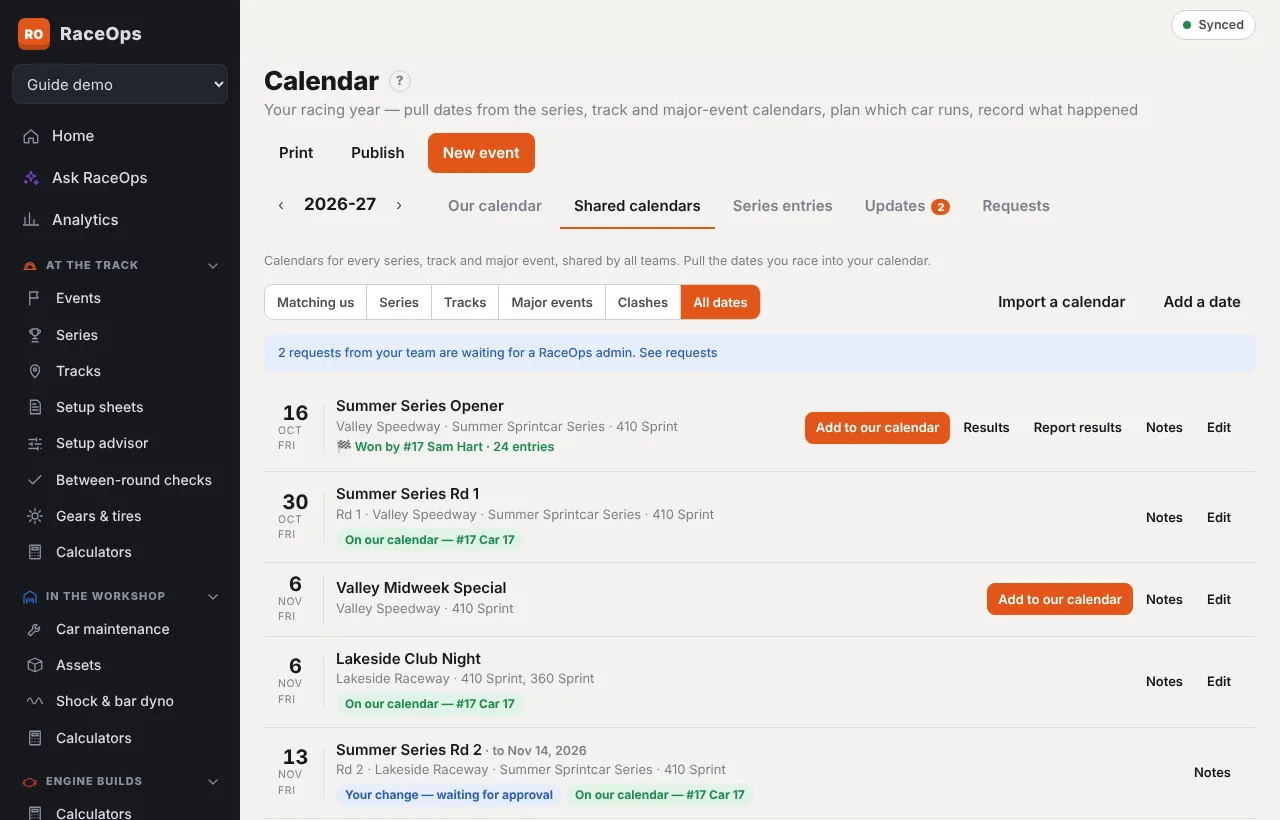
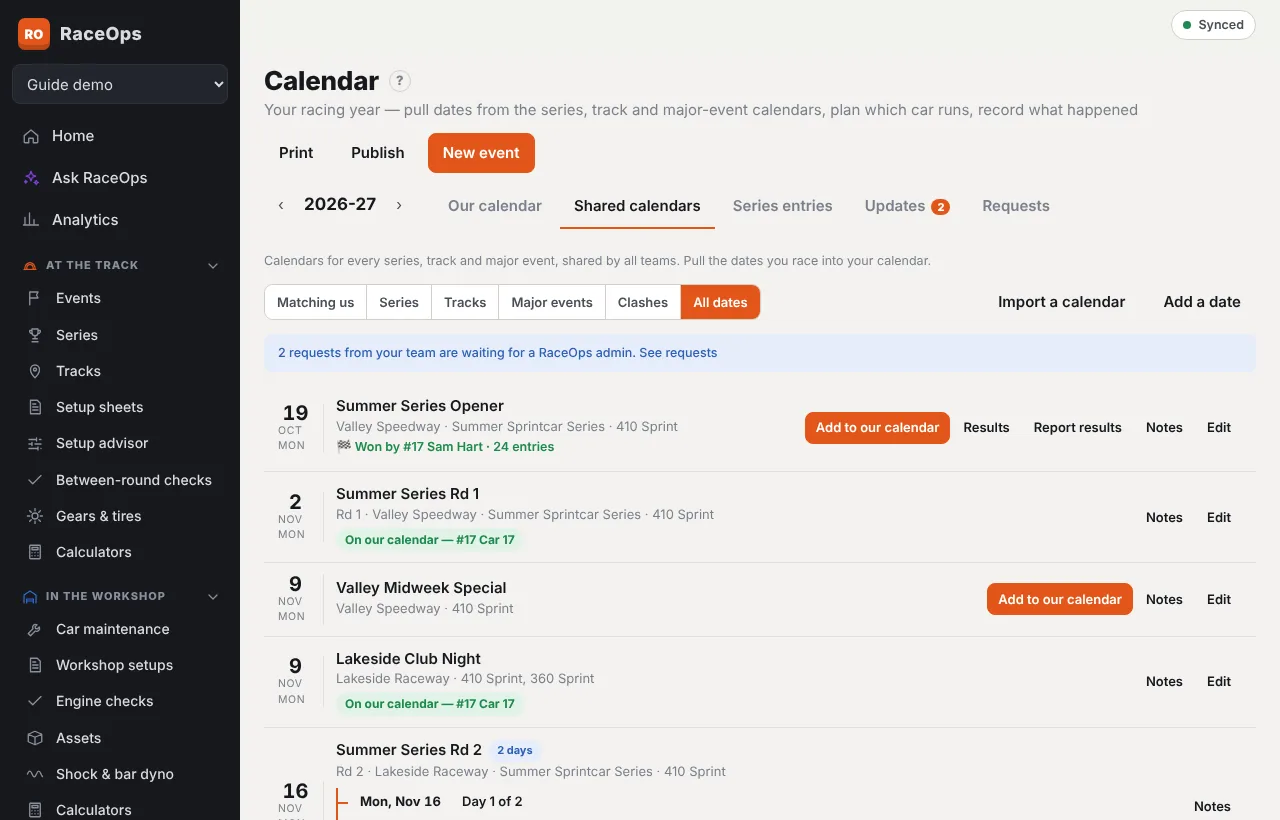
Multi-day events: a line for each day in lists
Under a multi-day event in Events, Calendar, shared calendar dates, a series'
rounds, a track's events, At the Track and the printed/published calendar:
one line per day with its date, name (or "Day 1 of 2"), start time and
rained out / cancelled, joined to the event by a rail. Past days greyed,
today marked. On the Calendar and series rounds each line opens that day.
Calendar entries and shared dates show "N days" like Events.

New DayLines component; guide, training exercise, What's new, release
notes 2026.10.24.3, design doc, retaken calendar pictures; e2e40 checks the
lines.

Claude-Session: https://claude.ai/code/session_01DwJBsK4aLjhNTjZaJ528Kq

diff --git a/web/src/pages/Calendar.jsx b/web/src/pages/Calendar.jsx
@@ -5,6 +5,7 @@ import { Fragment, useEffect, useMemo, useState } from 'react';
 import { Link, useNavigate, useParams, useSearchParams } from 'react-router-dom';
 import FormRenderer from '../components/FormRenderer.jsx';
 import { daysError, sheetsByDay } from '../components/DaysField.jsx';
+import DayLines from '../components/DayLines.jsx';
 import {
   AdminRequests, DuplicatesPanel, FeedPanel, FollowButton, HistoryPanel, MergeInto, OfficialsPanel, ReportResults, RequestsTab, ResultsTable, TeamNotes,
   UpdatesTab, sendRequest, useCalendarRequests, useOfficials, winnerText,
@@ -169,14 +170,15 @@ function CalendarRow({ i, data, past }) {
   const [editing, setEditing] = useState(false);
   const st = entryStatus(i.values, today());
   return (
-    <div className={`list-row cal-row${i.notGoing ? ' not-going' : ''}${i.cancelled ? ' cancelled' : ''}`} data-event={i.id}>
+    <div className={`list-row cal-row${i.days.length > 1 ? ' event-row' : ''}${i.notGoing ? ' not-going' : ''}${i.cancelled ? ' cancelled' : ''}`} data-event={i.id}>
       <span className="date-block">
         <b>{new Date(`${i.date}T00:00:00`).getDate() || '–'}</b>
         <small>{i.date ? new Date(`${i.date}T00:00:00`).toLocaleString(undefined, { month: 'short' }) : ''} {dow(i.date)}</small>
       </span>
       <span className="grow">
-        <Link className="row-title" to={`/events/${i.id}`}>{i.name}</Link>
-        <span className="row-sub">{[roundAndTrack(i.round, i.track), i.series, i.sanctioning, i.car, i.days.length > 1 && fmtDays(i.values)].filter(Boolean).join(' · ')}</span>
+        <Link className="row-title" to={`/events/${i.id}`}>{i.name}{i.days.length > 1 && <span className="pill pill-info days-pill">{i.days.length} days</span>}</Link>
+        <span className="row-sub">{[roundAndTrack(i.round, i.track), i.series, i.sanctioning, i.car].filter(Boolean).join(' · ')}</span>
+        <DayLines values={i.values} eventId={i.id} />
         {i.major && <span className="pill pill-info">★ {i.major}</span>}
         {winnerText(vals(i.fx)) && <span className="small winner">🏁 {winnerText(vals(i.fx))}</span>}
         {i.cancelled && <span className="pill pill-over">Cancelled</span>}
@@ -519,8 +521,9 @@ export function SharedCalendars({ data, year, sm, label, mode = 'team', admin: a
                       <small>{fv.date ? new Date(`${fv.date}T00:00:00`).toLocaleString(undefined, { month: 'short' }) : ''} {dow(fv.date)}</small>
                     </span>
                     <span className="grow">
-                      <span className="row-title">{fv.name}{eventDayList(fv).length > 1 ? <span className="muted small"> · {fmtDays(fv)}</span> : null}</span>
+                      <span className="row-title">{fv.name}{eventDayList(fv).length > 1 ? <span className="pill pill-info days-pill">{eventDayList(fv).length} days</span> : null}</span>
                       <span className="row-sub">{[roundAndTrack(fv.round, trackName(data, fv)), series && vals(series).name, sanctioningOf(fv, vals(series)), classes.join(', '), fv.start_time].filter(Boolean).join(' · ')}</span>
+                      <DayLines values={fv} />
                       {winnerText(fv) && <span className="small winner">🏁 {winnerText(fv)}{fv.entries ? ` · ${fv.entries} entries` : ''}</span>}
                       <span className="fx-flags">
                         {fv.major && <Pill level="info">{majorLabel(fv)}</Pill>}
@@ -1096,6 +1099,7 @@ export function CalendarSheet({ title, sub, items, showCar = true, showResult = 
                 <td className="cs-date">{sheetDays(i)}</td>
                 <td>
                   <b>{i.name}</b>{i.tentative && <em className="muted"> (tentative)</em>}{i.cancelled && <b className="cs-cancel"> CANCELLED</b>}
+                  {i.days?.length > 1 && <DayLines values={{ name: i.name, multi_day: true, days: i.days }} compact />}
                   {i.major && <div className="small cs-major">★ {i.major}</div>}
                   <div className="muted small">{[roundAndTrack(i.round, i.track), i.location && i.location !== i.track ? i.location : '', i.series, i.sanctioning].filter(Boolean).join(' · ')}</div>
                   {((showCar && i.car) || (showResult && i.result)) && (

diff --git a/web/src/pages/Areas.jsx b/web/src/pages/Areas.jsx
@@ -13,6 +13,7 @@ import { ShopHome } from './Shop.jsx';
 import { SetupChecklist } from '../components/SetupChecklist.jsx';
 import { AnalyticsKpis } from './Analytics.jsx';
 import { markReleaseSeen, unseenRelease } from '../lib/releases.js';
+import DayLines from '../components/DayLines.jsx';
 
 // ---------- access gate used by routes ----------
 export function AreaGate({ area, module, children }) {
@@ -213,12 +214,14 @@ export function TrackHub() {
             {ev ? (
               <Link to={`/events/${ev.id}`} className="next-event">
                 <span className="ne-date"><b>{new Date(`${v(ev, 'date')}T00:00:00`).getDate()}</b><small>{new Date(`${v(ev, 'date')}T00:00:00`).toLocaleString(undefined, { month: 'short' })}</small></span>
-                <span className="grow"><span className="row-title">{v(ev, 'name')}</span><span className="row-sub">{roundAndTrack(v(ev, 'round'), eventTrack(ev, data))}</span></span>
+                <span className="grow"><span className="row-title">{v(ev, 'name')}</span><span className="row-sub">{roundAndTrack(v(ev, 'round'), eventTrack(ev, data))}</span>
+                  <DayLines values={ev.data?.values} compact /></span>
                 <span className="btn small">Open sheets</span>
               </Link>
             ) : <p className="muted">Nothing scheduled.</p>}
             {s.nextEvents.slice(1, 4).map((e) => (
-              <Link key={e.id} to={`/events/${e.id}`} className="list-row"><span className="grow">{v(e, 'name')}<span className="row-sub">{roundAndTrack(v(e, 'round'), eventTrack(e, data))}</span></span><span className="row-meta">{fmtDate(v(e, 'date'))}</span></Link>
+              <Link key={e.id} to={`/events/${e.id}`} className="list-row"><span className="grow">{v(e, 'name')}<span className="row-sub">{roundAndTrack(v(e, 'round'), eventTrack(e, data))}</span>
+                <DayLines values={e.data?.values} compact /></span><span className="row-meta">{fmtDate(v(e, 'date'))}</span></Link>
             ))}
           </Section>
         )}

diff --git a/web/src/styles.css b/web/src/styles.css
@@ -1588,3 +1588,23 @@ a.sc-label { color: inherit; font-weight: 600; }
 .release-nav { display: flex; justify-content: space-between; gap: 8px; }
 .release-notice { display: flex; align-items: center; gap: 10px; }
 .sidebar-foot .app-version { display: block; margin-top: 2px; text-decoration: none; }
+
+/* multi-day events in lists: a line per day under the event, joined to it by a rail */
+.day-lines { list-style: none; margin: 8px 0 2px; padding: 0 0 0 14px; border-left: 2px solid var(--a-track, var(--accent)); display: grid; gap: 2px; position: relative; z-index: 1; }
+.day-line { position: relative; }
+.day-line::before { content: ''; position: absolute; left: -14px; top: 50%; width: 10px; border-top: 2px solid var(--a-track, var(--accent)); }
+.dl-link { display: flex; flex-wrap: wrap; align-items: center; gap: 2px 10px; padding: 4px 8px; border-radius: 6px; color: inherit; text-decoration: none; font-size: 13px; }
+a.dl-link:hover { background: var(--surface-2); }
+.dl-when { min-width: 92px; font-weight: 700; font-variant-numeric: tabular-nums; }
+.dl-name { font-weight: 600; }
+.dl-meta { color: var(--muted); }
+.day-line.past .dl-link { color: var(--muted); }
+.day-line.today .dl-when::after { content: ' · today'; color: var(--accent); }
+.day-line.off .dl-when, .day-line.off .dl-name { text-decoration: line-through; color: var(--muted); }
+.day-lines.compact .dl-link { padding: 2px 6px; font-size: 12.5px; }
+.day-lines.compact .dl-when { min-width: 84px; }
+/* event rows with day lines: everything lines up at the top */
+.list-row.event-row { align-items: flex-start; }
+.list-row.event-row .date-block, .list-row.event-row .row-meta { padding-top: 2px; }
+.cal-table .day-lines { margin-top: 4px; }
+@media print { .day-lines { border-left-color: #999; } .day-line::before { border-top-color: #999; } }

diff --git a/web/src/pages/Events.jsx b/web/src/pages/Events.jsx
@@ -8,6 +8,7 @@ import { useSession } from '../lib/session.jsx';
 import { saveRecord } from '../lib/store.js';
 import { orderForNew, orderSessions } from '../lib/sessions.js';
 import { EntryResult } from './Calendar.jsx';
+import DayLines from '../components/DayLines.jsx';
 
 /** Number of days an event runs (1 for single-day). */
 export const eventDays = (ev) => Math.max(1, eventDayList(ev?.data?.values).length);
@@ -37,14 +38,15 @@ export function currentDay(tabs, t = today()) {
 export function EventRow({ e, data, n }) {
   const s = data.byId[v(e, 'series')];
   return (
-    <Link to={`/events/${e.id}`} className="list-row">
+    <Link to={`/events/${e.id}`} className="list-row event-row" data-event={e.id}>
       <span className="date-block">
         <b>{new Date(`${v(e, 'date')}T00:00:00`).getDate() || '–'}</b>
         <small>{v(e, 'date') ? new Date(`${v(e, 'date')}T00:00:00`).toLocaleString(undefined, { month: 'short', year: '2-digit' }) : ''}</small>
       </span>
       <span className="grow">
         <span className="row-title">{v(e, 'name')}{eventDays(e) > 1 ? <span className="pill pill-info days-pill">{eventDays(e)} days</span> : null}</span>
-        <span className="row-sub">{[eventDays(e) > 1 && dateRange(e), roundAndTrack(v(e, 'round'), eventTrack(e, data)), s && titleOf(s), !s && v(e, 'event_type'), data.byId[v(e, 'car')] && titleOf(data.byId[v(e, 'car')])].filter(Boolean).join(' · ')}</span>
+        <span className="row-sub">{[roundAndTrack(v(e, 'round'), eventTrack(e, data)), s && titleOf(s), !s && v(e, 'event_type'), data.byId[v(e, 'car')] && titleOf(data.byId[v(e, 'car')])].filter(Boolean).join(' · ')}</span>
+        <DayLines values={e.data?.values} />
       </span>
       <span className="row-meta">{n ? `${n} sheet${n > 1 ? 's' : ''}` : ''}</span>
     </Link>

diff --git a/web/src/pages/Tracks.jsx b/web/src/pages/Tracks.jsx
@@ -10,6 +10,7 @@ import { fmtDate, titleOf, useTeamData, v, platformList } from '../lib/data.js';
 import { deleteRecord, saveRecord } from '../lib/store.js';
 import { useSession } from '../lib/session.jsx';
 import { dateRange } from './Events.jsx';
+import DayLines from '../components/DayLines.jsx';
 
 const place = (t) => [v(t, 'city'), v(t, 'region'), v(t, 'country')].filter(Boolean).join(', ');
 const isGlobal = (r) => !!(r?.global || r?.data?.scope === 'global');
@@ -266,8 +267,9 @@ export function TrackDetail() {
       <Section title={`Our events here (${events.length})`} actions={canType('event', 'edit') && <Link className="btn small" to={`/r/event/new?venue=${id}`}>New event here</Link>}>
         {events.length === 0 ? <p className="muted">No events recorded at this track yet.</p> : (
           <div className="list">{events.map((e) => (
-            <Link key={e.id} to={`/events/${e.id}`} className="list-row">
-              <span className="grow"><span className="row-title">{v(e, 'name')}</span><span className="row-sub">{[dateRange(e), v(e, 'round') && `Rd ${v(e, 'round')}`, data.byId[v(e, 'series')] && titleOf(data.byId[v(e, 'series')])].filter(Boolean).join(' · ')}</span></span>
+            <Link key={e.id} to={`/events/${e.id}`} className="list-row event-row" data-event={e.id}>
+              <span className="grow"><span className="row-title">{v(e, 'name')}</span><span className="row-sub">{[dateRange(e), v(e, 'round') && `Rd ${v(e, 'round')}`, data.byId[v(e, 'series')] && titleOf(data.byId[v(e, 'series')])].filter(Boolean).join(' · ')}</span>
+                <DayLines values={e.data?.values} /></span>
               <span className="row-meta">{setups.filter((s) => v(s, 'event') === e.id).length} sheets</span>
             </Link>
           ))}</div>

diff --git a/web/src/components/DayLines.jsx b/web/src/components/DayLines.jsx
@@ -1,0 +1,33 @@
+// The days of a multi-day event, as lines under its row in a list: each day's date, its name (or Day 2 of 3),
+// start time and whether it ran, joined to the event by a rail so it's clear they're one meeting.
+// Each line opens the event on that day's tab. Nothing for a one-day event.
+import { Link } from 'react-router-dom';
+import { eventDayList } from '@shared/calendar.js';
+import { fmtDay, fmtTime, today } from '../lib/data.js';
+
+export default function DayLines({ values, eventId = null, compact = false }) {
+  const days = eventDayList(values);
+  if (days.length < 2) return null;
+  const t = today();
+  const of = days.length;
+  return (
+    <ol className={`day-lines${compact ? ' compact' : ''}`} aria-label={`${of} days of ${values?.name || 'this event'}`} data-testid="day-lines">
+      {days.map((d, i) => {
+        const name = d.label || `Day ${i + 1} of ${of}`;
+        const body = (
+          <>
+            <span className="dl-when">{fmtDay(d.date)}</span>
+            <span className="dl-name">{name}</span>
+            {(d.label || d.time) && <span className="dl-meta">{[d.label && `Day ${i + 1} of ${of}`, d.time && fmtTime(d.time)].filter(Boolean).join(' · ')}</span>}
+            {d.off && <span className="pill pill-warn">{d.status}</span>}
+          </>
+        );
+        return (
+          <li key={d.n} className={`day-line${d.off ? ' off' : ''}${d.date < t ? ' past' : ''}${d.date === t ? ' today' : ''}`} data-day={d.n}>
+            {eventId ? <Link to={`/events/${eventId}?day=${d.n}`} className="dl-link">{body}</Link> : <span className="dl-link">{body}</span>}
+          </li>
+        );
+      })}
+    </ol>
+  );
+}

diff --git a/web/src/pages/Series.jsx b/web/src/pages/Series.jsx
@@ -6,6 +6,7 @@ import { useSession } from '../lib/session.jsx';
 import { dateRange, eventDays } from './Events.jsx';
 import { useState } from 'react';
 import { FollowButton, RequestChange, TeamNotes } from '../components/SharedRequests.jsx';
+import DayLines from '../components/DayLines.jsx';
 
 const roundsOf = (data, id) => data.list('event').filter((e) => v(e, 'series') === id || (v(e, 'series') && v(data.byId[v(e, 'series')], 'shared_as') === id))
   .sort((a, b) => (num(v(a, 'round')) ?? 999) - (num(v(b, 'round')) ?? 999) || (v(a, 'date') || '').localeCompare(v(b, 'date') || ''));
@@ -94,7 +95,8 @@ export function SeriesDetail() {
                 return (
                   <tr key={e.id}>
                     <td><b>{v(e, 'round') || '—'}</b></td>
-                    <td><Link to={`/events/${e.id}`}>{v(e, 'name')}</Link>{eventDays(e) > 1 && <small className="muted"> · {eventDays(e)} days</small>}</td>
+                    <td><Link to={`/events/${e.id}`}>{v(e, 'name')}</Link>{eventDays(e) > 1 && <small className="muted"> · {eventDays(e)} days</small>}
+                      <DayLines values={e.data?.values} eventId={e.id} compact /></td>
                     <td>{data.byId[v(e, 'venue')] ? <Link to={`/tracks/${v(e, 'venue')}`}>{eventTrack(e, data)}</Link> : eventTrack(e, data)}</td>
                     <td>{dateRange(e)}</td>
                     {cars.map((c) => { const f = feature(e, c); return <td key={c.id}>{f && v(f, 'finish') ? <b>P{v(f, 'finish')}</b> : <span className="muted">—</span>}</td>; })}

diff --git a/tests/e2e/e2e40.py b/tests/e2e/e2e40.py
@@ -84,7 +84,12 @@ with sync_playwright() as pw:
     row = page.locator('.list-row:has-text("Valley Spring Classic")')
     expect(row).to_have_count(1)
     expect(row).to_contain_text('2 days')
-    expect(row.locator('.row-sub')).to_contain_text('&')       # "Sat 14 & Mon 16 Nov 2026": days with a gap
+    lines = row.locator('[data-testid="day-lines"] .day-line')                       # a line for each day, under the event
+    expect(lines).to_have_count(2)
+    expect(lines.nth(0)).to_contain_text('Practice & prelims'); expect(lines.nth(0)).to_contain_text('Day 1 of 2')
+    expect(lines.nth(1)).to_contain_text('Finals'); expect(lines.nth(1)).to_contain_text('Day 2 of 2')
+    expect(page.locator('.list-row:has-text("Valley Speedway — Club night") [data-testid="day-lines"]')).to_have_count(0)   # one-day event: none
+    shot('40-00-events-list')
 
     # ---- the event: a tab per day, named; a sheet goes on the tab you're on
     page.goto(B + f"/events/{classic['id']}")
@@ -151,7 +156,10 @@ with sync_playwright() as pw:
     page.goto(B + '/calendar')
     crow = page.locator(f'.cal-row[data-event="{classic["id"]}"]')
     expect(crow).to_have_count(1)
-    expect(crow.locator('.row-sub')).to_contain_text('&')
+    clines = crow.locator('[data-testid="day-lines"] .day-line')
+    expect(clines).to_have_count(2)
+    expect(clines.nth(0)).to_have_class(re.compile(r'\boff\b'))                         # rained out: crossed out
+    expect(clines.nth(1).locator('a')).to_have_attribute('href', f'/events/{classic["id"]}?day=2')   # opens that day
     crow.locator('button:has-text("Edit")').click()
     expect(crow.locator('[data-testid="quick-edit"] .qe-days')).to_contain_text('All details')   # days with gaps: changed in the full form
     expect(crow.locator('[aria-label="End date"]')).to_have_count(0)
@@ -184,7 +192,8 @@ with sync_playwright() as pw:
     st, r = call('/admin/calendar/fixtures/new', OT, 'PUT', {'values': fx}); assert st == 200, r; FX = r['id']
     page.goto(B + '/calendar?tab=shared&show=all'); page.reload(); expect(page.locator('text=Synced')).to_be_visible(timeout=30000)
     frow = page.locator(f'[data-fixture="{FX}"]')
-    expect(frow).to_contain_text('&')
+    expect(frow).to_contain_text('2 days')
+    expect(frow.locator('.day-line')).to_have_count(2); expect(frow.locator('.day-line').nth(1)).to_contain_text('Night 2')
     frow.locator('button:has-text("Add to our calendar")').click()
     af = frow.locator('[data-testid="add-fx"]')
     af.locator('label:has-text("Car 17") input').check()
@@ -222,6 +231,7 @@ with sync_playwright() as pw:
     assert f'DTSTART;VALUE=DATE:{iso(D1, 1).replace("-", "")}' not in ics, 'the night off has no entry'
     page.goto(B + f'/c/{pub["token"]}')
     expect(page.locator(f'.cal-table tr:has-text("Valley Spring Classic") .cs-date')).to_contain_text('&')
+    expect(page.locator(f'.cal-table tr:has-text("Valley Spring Classic") .day-line').nth(1)).to_contain_text('Finals')
     shot('40-05-public')
 
     # ---- older events open as their days; the guide explains it

diff --git a/docs/design/DESIGN.md b/docs/design/DESIGN.md
@@ -13,7 +13,7 @@
 | Repository | `github.com/mdburlace/raceops`, branch `main` |
 | Owner | Mark Burlace |
 | Last schema migration | `018_engine_tunes.sql` |
-| Last updated | October 2026 (release notes) |
+| Last updated | October 2026 (a line for each day in lists) |
 
 ---
 
@@ -538,7 +538,7 @@ The largest cross-team workflow. Shared (global) `series` and `fixture` records 
 ### 12.1 Records
 
 - `fixture` (global or team): `name`, `date`, `end_date`, `multi_day`, `days`, `venue` (track id or text), `series`, `round`, `classes`, `status` (Scheduled/Postponed/Cancelled), `major`, `major_name`, `sanctioning`, `entries`, `results` (table: pos, number, driver, team), `results_note`, `feed_uid`, `source`.
-- **Multi-day events and dates** (`event` and `fixture`): `multi_day: true` and `days: [{ n, date, label?, time? ("HH:MM"), status? ("Rained out" | "Cancelled") }]`, at most 14. `n` is the day's number: given once (new days take the highest number + 1) and never reused or renumbered, because setup sheets and between-round checks store it as their `day`. `date` / `end_date` always hold the first and last day, so racing years, sorting and past/upcoming need nothing else. `shared/calendar.js` owns the rules: `normaliseDays()` runs on every client save of an event or fixture (`store.js` `saveRecord`, `FixtureEditor`) and on every server write of a shared date (`pickFixture()` in `calendarRequests.js`, the admin PUT in `calendar.js`); it sorts and numbers the days, sets the span, turns an older date-to-end-date run of up to 14 days into one row per day, and drops days and end date when multi-day is off. `eventDayList()` reads the days of any record (older ranges included); `dayDateOf()` gives a sheet's date (Ask RaceOps, analytics, engine sharing, weather); `respanDays()` moves consecutive days for the calendar's quick edit; `fixtureChanges()` reports a changed set of days as one `days` change with a `patch`. **Changes that don't know the days** (an app older than this feature, an API call, a calendar request or feed check that only carries the date and end date) go through `moveDays(before, after)` on the server (sync push, admin PUT, request approval): a change without a `days` list keeps the record's days; a new first date moves every day by the same number of days (gaps, names and numbers kept); a new end date alone adds or takes off days only when the days run one after another. Only a change that edits the days, or sets `multi_day: false`, replaces them. **A team's own days with sheets survive shared-date changes**: `syncEvents` (server) and **Update ours** (client) run `keepUsedDays()`, so a day the team added, or one the shared date dropped, stays while a sheet is on it. Older installed apps don't know the `days` field type or `hidden`: until they update they show the days as text and the end date as a box, and count days from date to end date; their changes are kept in line by `moveDays`. The editor refuses to remove a day (or untick multi-day) while sheets are on it; the event page shows a tab for any day number a sheet still has. iCal output (`toICS`) writes one VEVENT per day for items with `days`: the first keeps the meeting's UID, the others are `<id>-d<n>@…`.
+- **Multi-day events and dates** (`event` and `fixture`): `multi_day: true` and `days: [{ n, date, label?, time? ("HH:MM"), status? ("Rained out" | "Cancelled") }]`, at most 14. `n` is the day's number: given once (new days take the highest number + 1) and never reused or renumbered, because setup sheets and between-round checks store it as their `day`. `date` / `end_date` always hold the first and last day, so racing years, sorting and past/upcoming need nothing else. `shared/calendar.js` owns the rules: `normaliseDays()` runs on every client save of an event or fixture (`store.js` `saveRecord`, `FixtureEditor`) and on every server write of a shared date (`pickFixture()` in `calendarRequests.js`, the admin PUT in `calendar.js`); it sorts and numbers the days, sets the span, turns an older date-to-end-date run of up to 14 days into one row per day, and drops days and end date when multi-day is off. `eventDayList()` reads the days of any record (older ranges included); `dayDateOf()` gives a sheet's date (Ask RaceOps, analytics, engine sharing, weather); `respanDays()` moves consecutive days for the calendar's quick edit; `fixtureChanges()` reports a changed set of days as one `days` change with a `patch`. **Changes that don't know the days** (an app older than this feature, an API call, a calendar request or feed check that only carries the date and end date) go through `moveDays(before, after)` on the server (sync push, admin PUT, request approval): a change without a `days` list keeps the record's days; a new first date moves every day by the same number of days (gaps, names and numbers kept); a new end date alone adds or takes off days only when the days run one after another. Only a change that edits the days, or sets `multi_day: false`, replaces them. **A team's own days with sheets survive shared-date changes**: `syncEvents` (server) and **Update ours** (client) run `keepUsedDays()`, so a day the team added, or one the shared date dropped, stays while a sheet is on it. Older installed apps don't know the `days` field type or `hidden`: until they update they show the days as text and the end date as a box, and count days from date to end date; their changes are kept in line by `moveDays`. The editor refuses to remove a day (or untick multi-day) while sheets are on it; the event page shows a tab for any day number a sheet still has. In lists (Events, Calendar, shared dates, series rounds, track events, At the Track, the printed and published calendar) `web/src/components/DayLines.jsx` draws a line per day under the event row (date, name or "Day n of m", start time, rained out), joined by a rail; where the row isn't itself a link, each line opens `/events/:id?day=<n>`. iCal output (`toICS`) writes one VEVENT per day for items with `days`: the first keeps the meeting's UID, the others are `<id>-d<n>@…`.
 - `event` (team): created from a fixture by `eventFromFixture()` (which copies its days), carries `fixture` (link), `car`, `intent` (Planned/Tentative/Not going), `outcome` (Raced the feature, Did not make the feature, Withdrew…, Did not attend, Event cancelled), `withdraw_reason`, `withdraw_session`, notes.
 - `season_plan` (team): series entry — `series`, `season`, `car`, `class`, `participation` (Full/Partial).
 - `local_note` (team): private notes on a shared series, track or date.

diff --git a/docs/guide/whats-new.md b/docs/guide/whats-new.md
@@ -12,6 +12,7 @@ Every RaceOps update adds a line here, and the articles it links to are updated 
 
 ## October 2026
 
+- **A line for each day in lists.** A multi-day event in **Events**, **Calendar**, the shared calendars, series and track pages, **At the Track** and the printed calendar now has a line for each day under it: the date, the day's name (or *Day 1 of 2*), its start time and whether it was rained out, joined to the event by a line down the left. On the Calendar, tap a day to open it. [Multi-day events](/help/events-sessions#multi-day-events)
 - **Release notes.** **Help & guide → Release notes** lists every release, newest first, with its summary and date, new features, improvements, bug fixes and notes. The bottom of the sidebar shows your version, and Home tells you once when the app has been updated. Platform admins can link each release to its code on GitHub. [Release notes](/help/release-notes)
 - **Multi-day events.** Tick **Runs over more than one day** on an event or shared calendar date, then set each day: its date, a name such as *Night 1* or *Finals*, a start time, and whether it was rained out. Days can have gaps. It stays one event: the event page has a tab per day, setup sheets pick their day, and the calendar, month view and iCal feeds show each day. [Multi-day events](/help/events-sessions#multi-day-events)
 - **Engine tunes and engine checks.** **Engine tunes** keeps each engine's tune in versions, with one active: pill settings by ADR or density altitude, the ending tune and the fuel system. Setup sheets show the pills for tonight's weather and **Use this jetting** fills them in. Engine builders can share a tune with the owner's team. **In the Workshop → Engine checks** records the between-race engine service, and flags weak springs, rising leak-down, lash off the tune and plug readings. [Engine tune sheets](/help/engine-tunes), [Workshop engine checks](/help/engine-checks)

diff --git a/docs/guide/events-sessions.md b/docs/guide/events-sessions.md
@@ -51,7 +51,16 @@ The event's date and end date are set from the days. Days are listed by date, wh
 
 **On the event,** each day gets its own tab, named after the day (or *Day 1*, *Day 2*…) with its date. While the meeting is on, it opens on today's day. A sheet you add goes on the tab you're on. On a setup sheet, **Day** lists the event's days, so you can move a sheet to another day.
 
-**Elsewhere,** the calendar's month view marks each day the event runs, not the days in between. Lists show the days, e.g. *Thu 4 & Sat 6 Dec 2026*. Your published calendar and its **Subscribe** link have one entry per day. The weather on a setup sheet starts at that day's date and start time.
+**In lists** (**Events**, **Calendar**, the shared calendars, a series' rounds, a track's events, **At the Track** and the printed calendar), the event is one row marked **2 days** (or however many). Under it there's a line for each day, joined to the event by a line down the left:
+
+- the day's date, e.g. *Sat 14 Nov*;
+- its name, e.g. *Finals*, or *Day 1 of 2* if it hasn't got one;
+- its start time;
+- **Rained out** or **Cancelled**, with the day crossed out.
+
+Days already past are greyed, and today's day says *today*. On the **Calendar** and a series' rounds, tap a day's line to open the event on that day.
+
+**Elsewhere,** the calendar's month view marks each day the event runs, not the days in between. Your published calendar and its **Subscribe** link have one entry per day. The weather on a setup sheet starts at that day's date and start time.
 
 **Taking a day off:** a day that has setup sheets can't be removed, and you can't untick **Runs over more than one day** while a later day has sheets. Open each sheet, change its **Day**, then remove the day.
 

diff --git a/docs/guide/calendar.md b/docs/guide/calendar.md
@@ -153,7 +153,7 @@ The boxes at the top add up the year: meetings planned, meetings you ran, featur
 
 **List** shows the year as a list with the controls. **Month** shows each month as a grid with your race days marked. Your choice is remembered for you.
 
-A meeting over more than one day is one entry. The list shows its days, e.g. *Thu 4 & Sat 6 Dec 2026*. The month grid marks only the days it runs, and a rained-out or cancelled day is crossed out. Tap a day to open the event on that day. See [Multi-day events](/help/events-sessions#multi-day-events).
+A meeting over more than one day is one entry, marked **2 days** (or however many). Under it is a line for each day: its date, its name (or *Day 1 of 2*), its start time, and **Rained out** or **Cancelled** if it didn't run. A line down the left joins the days to their event. Tap a day's line to open the event on that day. The month grid marks only the days it runs, and a rained-out or cancelled day is crossed out. Tap a day there to open it too. See [Multi-day events](/help/events-sessions#multi-day-events).
 
 ## Sharing with every team
 
